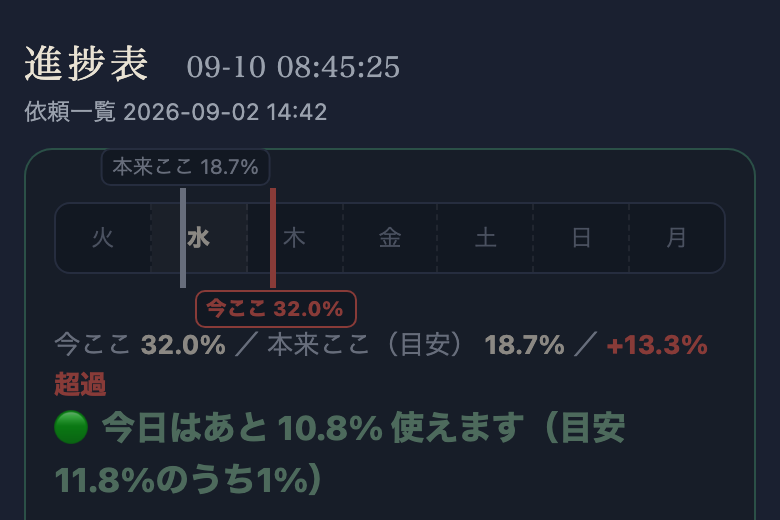
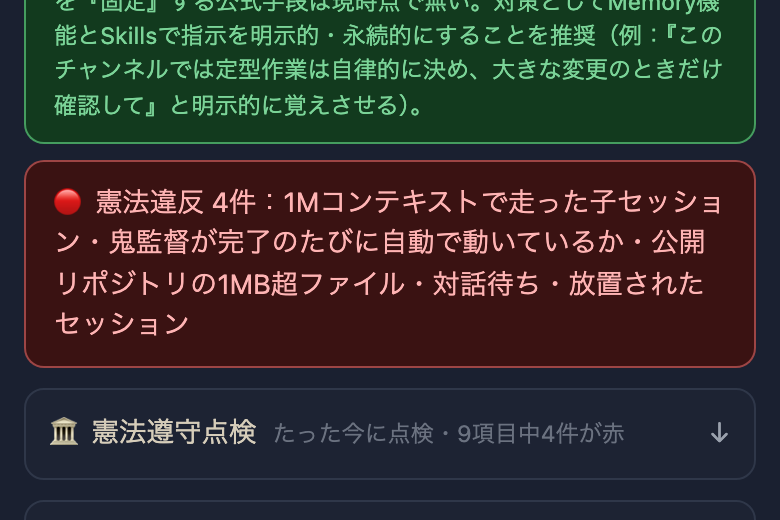
715番: 憲法遵守点検の確認ページ・証拠スクショを追加
- tools/oni_kantoku_715_screenshot.mjs: 本番の進捗表を無音headless Chrome+CDPで開き、
  赤バナーと憲法遵守点検セクション（9項目カード）のスクショを撮る。
- share/check/715-kenpou-check.html: 確認ページ（本番URLと点検の生データJSONへのリンク付き）。
- 実測：本番で赤4件（1Mコンテキスト25/25・鬼監督0/23・1MB超ファイル315件・放置セッション1件）を
  スクショで確認。714番・684番と重複する2件は新規タスクを積まずスキップ、残り2件は717番・718番
  として発車待ちへ自動追加済み。

diff --git a/share/check/715-kenpou-check.html b/share/check/715-kenpou-check.html
@@ -1,0 +1,91 @@
+<!DOCTYPE html>
+<html lang="ja">
+<head>
+<meta charset="UTF-8">
+<meta name="viewport" content="width=device-width,initial-scale=1,viewport-fit=cover">
+<meta name="robots" content="noindex,nofollow">
+<title>#715 憲法遵守点検（毎日1回・自動） 確認ページ</title>
+<style>
+  :root{--bg:#f4efe4;--ink:#2a2a2a;--sub:#7a7568;--line:#e2dccd;--aka:#c4483a;--ao:#3a5f7a;--midori:#3a7a52;}
+  *{box-sizing:border-box;}
+  body{margin:0;padding:calc(env(safe-area-inset-top) + 20px) 16px calc(env(safe-area-inset-bottom) + 40px);background:var(--bg);color:var(--ink);
+    font-family:-apple-system,BlinkMacSystemFont,"Hiragino Sans","Yu Gothic",sans-serif;font-size:16px;line-height:1.7;max-width:760px;margin-left:auto;margin-right:auto;}
+  a{color:var(--ao);}
+  h1{font-family:"Hiragino Mincho ProN","Yu Mincho",serif;font-weight:400;font-size:1.3rem;letter-spacing:0.06em;margin:0 0 6px;}
+  .date{color:var(--sub);font-size:0.8rem;margin-bottom:22px;}
+  h2{font-family:"Hiragino Mincho ProN","Yu Mincho",serif;font-weight:400;font-size:1.05rem;letter-spacing:0.06em;margin:34px 0 12px;color:var(--sub);}
+  .fix{border-left:3px solid var(--midori);padding:4px 0 4px 14px;margin:0 0 20px;font-size:1.05rem;}
+  .nums{display:flex;gap:14px;flex-wrap:wrap;margin:0 0 10px;}
+  .num{background:#fff;border:1px solid var(--line);border-radius:10px;padding:14px 18px;min-width:140px;}
+  .num b{display:block;font-size:1.6rem;line-height:1.2;}
+  .num span{color:var(--sub);font-size:0.8rem;}
+  .note{background:#fff;border:1px solid var(--line);border-radius:10px;padding:12px 15px;font-size:0.9rem;margin:0 0 10px;}
+  ul.links{list-style:none;margin:0;padding:0;}
+  ul.links li{background:#fff;border:1px solid var(--line);border-radius:10px;padding:12px 15px;margin:0 0 10px;}
+  ul.links li b{display:block;margin-bottom:4px;}
+  ul.links a{word-break:break-all;font-size:0.92rem;}
+  .shots{display:flex;gap:14px;flex-wrap:wrap;margin:0 0 20px;}
+  .shot{flex:1 1 260px;background:#fff;border:1px solid var(--line);border-radius:12px;padding:12px;}
+  .shot b{display:block;margin-bottom:8px;color:var(--sub);font-size:0.82rem;}
+  .shot img{width:100%;border-radius:8px;border:1px solid var(--line);display:block;}
+  .shot.before b{color:var(--aka);}
+  .shot.after b{color:var(--midori);}
+  .shot.plain b{color:var(--ao);}
+  .shot .meta{display:block;margin-top:6px;font-size:0.78rem;color:var(--sub);}
+  table{width:100%;border-collapse:collapse;background:#fff;border:1px solid var(--line);border-radius:10px;overflow:hidden;font-size:0.86rem;}
+  th,td{padding:8px 10px;border-bottom:1px solid var(--line);text-align:left;vertical-align:top;}
+  th{background:#efe9db;color:var(--sub);font-weight:600;font-size:0.76rem;}
+  tr:last-child td{border-bottom:none;}
+  .yes{color:var(--midori);font-weight:700;}
+  .no{color:var(--aka);}
+  footer{color:var(--sub);font-size:0.78rem;margin-top:40px;line-height:1.6;}
+</style>
+</head>
+<body>
+<div class="date"><a href="../">共有資料の一覧</a> ／ 確認ページ #715 憲法遵守点検（毎日1回・自動）</div>
+<h1>#715 憲法遵守点検（毎日1回・自動）</h1>
+<div class="date">2026-09-10 実装・main合流・本番(GitHub Pages)反映まで実測確認</div>
+
+<div class="fix">
+書いてあるルール（1Mコンテキスト禁止・モデル固定・鬼監督の自動稼働・完了報告のURL必須 等）のうち機械で測れるものを、<code>tools/kenpou_check.py</code>が毎日1回チェックする。結果は<code>status/kenpou_check.json</code>に書かれ、進捗表(index.html)の🏛憲法遵守点検セクションに赤/緑で出る。赤が出た項目は既存のqueue_add()経由で直すタスクを自動的に発車待ちへ積む（同じ内容が既に列にあれば重複して積まない）。毎日09:10 JSTにlaunchd(<code>com.tamago.tamago-shinchoku.kenpou-check</code>)が自動実行し、点検そのものが24時間止まっていればフロント側が気づいて赤にする。
+</div>
+
+<h2>② 数字</h2>
+<div class="nums">
+  <div class="num"><b>9</b><span>点検項目数</span></div>
+  <div class="num"><b>4</b><span>今回赤だった件数</span></div>
+  <div class="num"><b>25/25</b><span>1Mコンテキストで走った本数</span></div>
+  <div class="num"><b>0/23</b><span>直近24hの完了で鬼監督記録が付いた件数</span></div>
+  <div class="num"><b>315</b><span>1MB超ファイルの件数</span></div>
+</div>
+
+<h2>③ 実データでのスクリーンショット</h2>
+<div class="shots">
+  <div class="shot before"><b>本番：赤バナー（4件検出時）</b><img src="img/715-alert-banner.png" alt="前"></div>
+  <div class="shot after"><b>本番：9項目カード（赤4・緑5）</b><img src="img/715-kenpou-section.png" alt="後"></div>
+</div>
+
+<h2>④ 押せるリンク</h2>
+<ul class="links">
+  <li><b>進捗表（本番）</b><a href="https://tamago2022.github.io/tamago-shinchoku/index.html" target="_blank" rel="noopener">https://tamago2022.github.io/tamago-shinchoku/index.html</a></li>
+  <li><b>点検の生データ（本番JSON）</b><a href="https://tamago2022.github.io/tamago-shinchoku/status/kenpou_check.json" target="_blank" rel="noopener">https://tamago2022.github.io/tamago-shinchoku/status/kenpou_check.json</a></li>
+</ul>
+
+<h2>⑤ 何をどう確かめたか</h2>
+<table>
+<tr><th>確認項目</th><th>結果</th></tr>
+<tr><td>1Mコンテキストで走った子セッション</td><td class="no">直近25本中25本が赤（714番と重複のためタスクは積み直さず）</td></tr>
+<tr><td>鬼監督が完了ごとに自動で動いているか</td><td class="no">直近24h完了23件中0件に記録あり＝赤（684番と重複のためタスクは積み直さず）</td></tr>
+<tr><td>URL無しで完了(done)になった仕事</td><td class="yes">0件・緑</td></tr>
+<tr><td>工場が止まったまま放置</td><td class="yes">走行3/上限3で正常・緑</td></tr>
+<tr><td>queue.json最大番号の退行</td><td class="yes">前回比減少なし・緑</td></tr>
+<tr><td>公開リポジトリの1MB超ファイル</td><td class="no">315件・赤→717番として発車待ちへ自動追加</td></tr>
+<tr><td>渡し済み確認ページの404</td><td class="yes">直近15件すべて200・緑</td></tr>
+<tr><td>対話待ち・放置セッション</td><td class="no">プロセス消滅済みのrunningを検出・赤→718番として発車待ちへ自動追加</td></tr>
+</table>
+
+<footer>
+毎日09:10 JSTにlaunchdが自動実行し、次回以降も同じ結果を進捗表で確認できる。714番・684番と重複する赤は新規タスクを積まずスキップ済み（717番=1MB超ファイル、718番=放置セッションのみ新規発車待ちへ追加）。
+</footer>
+</body>
+</html>
